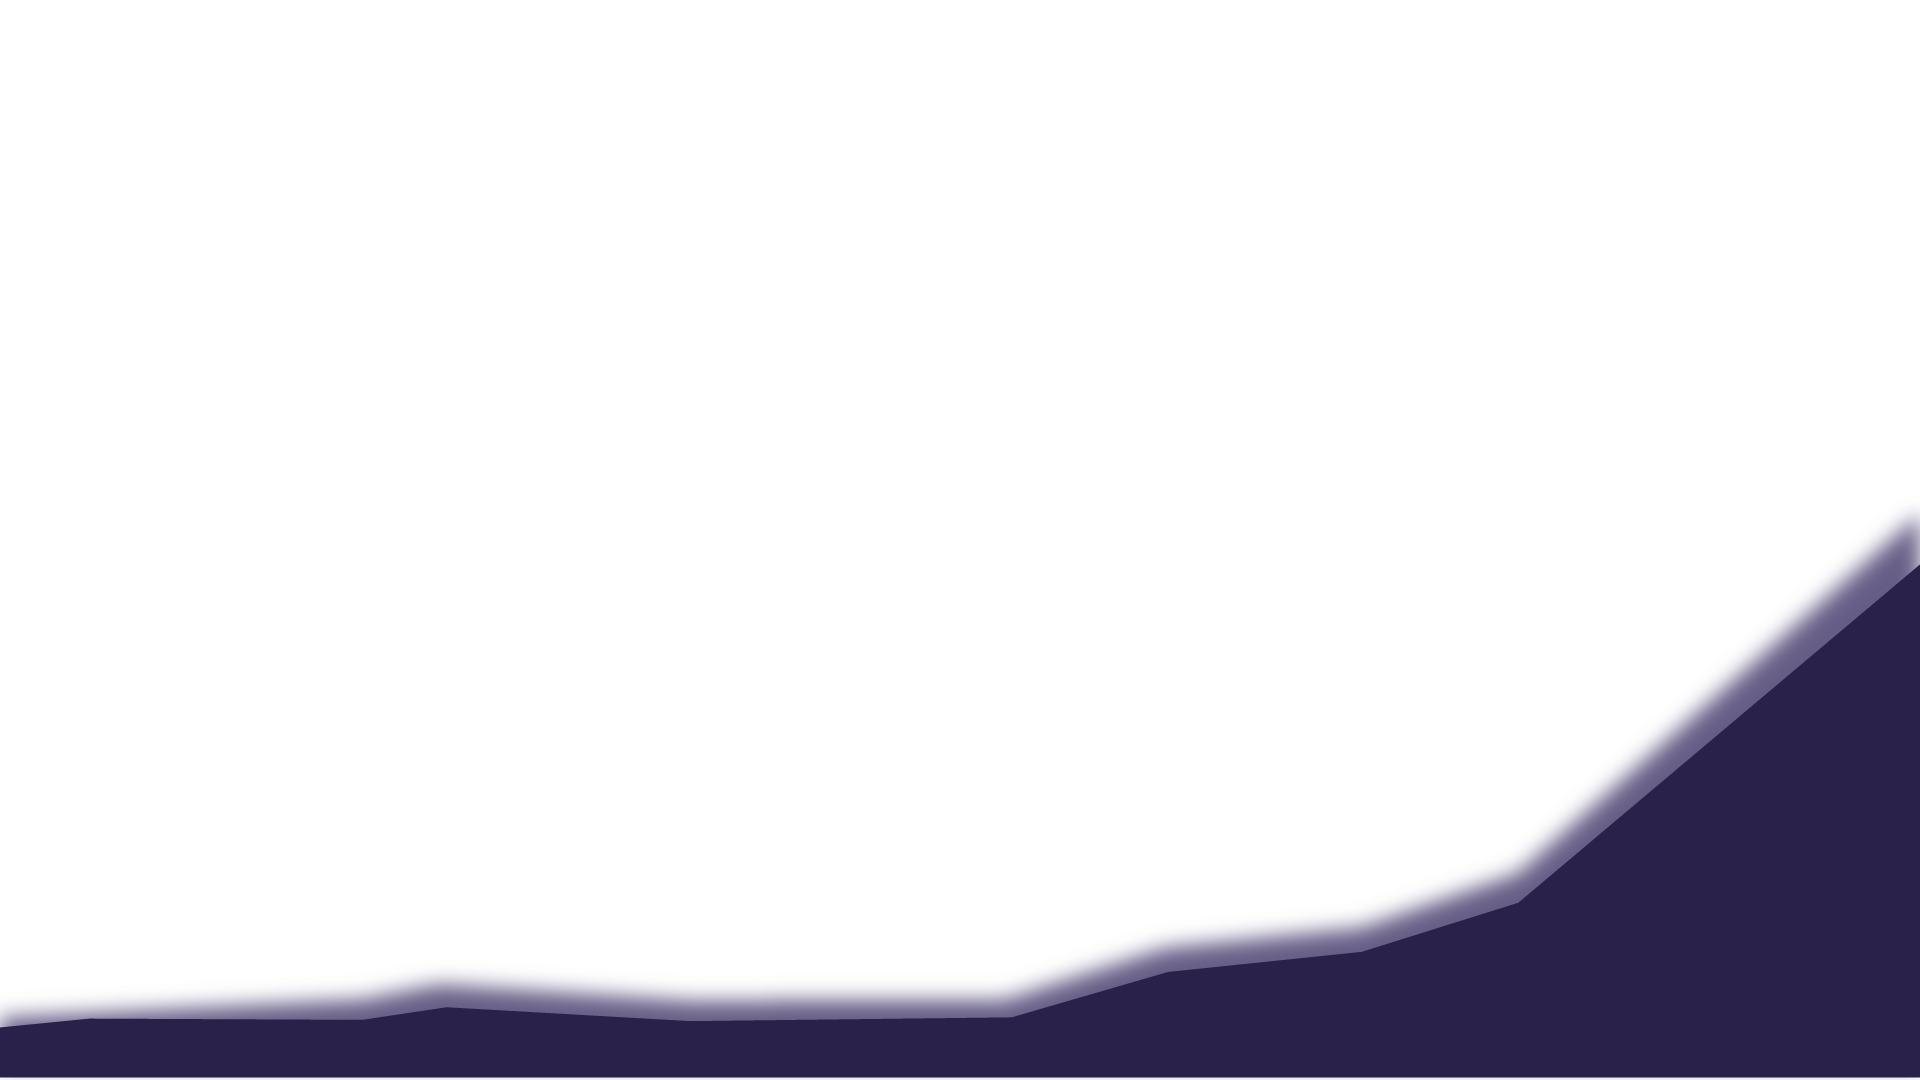
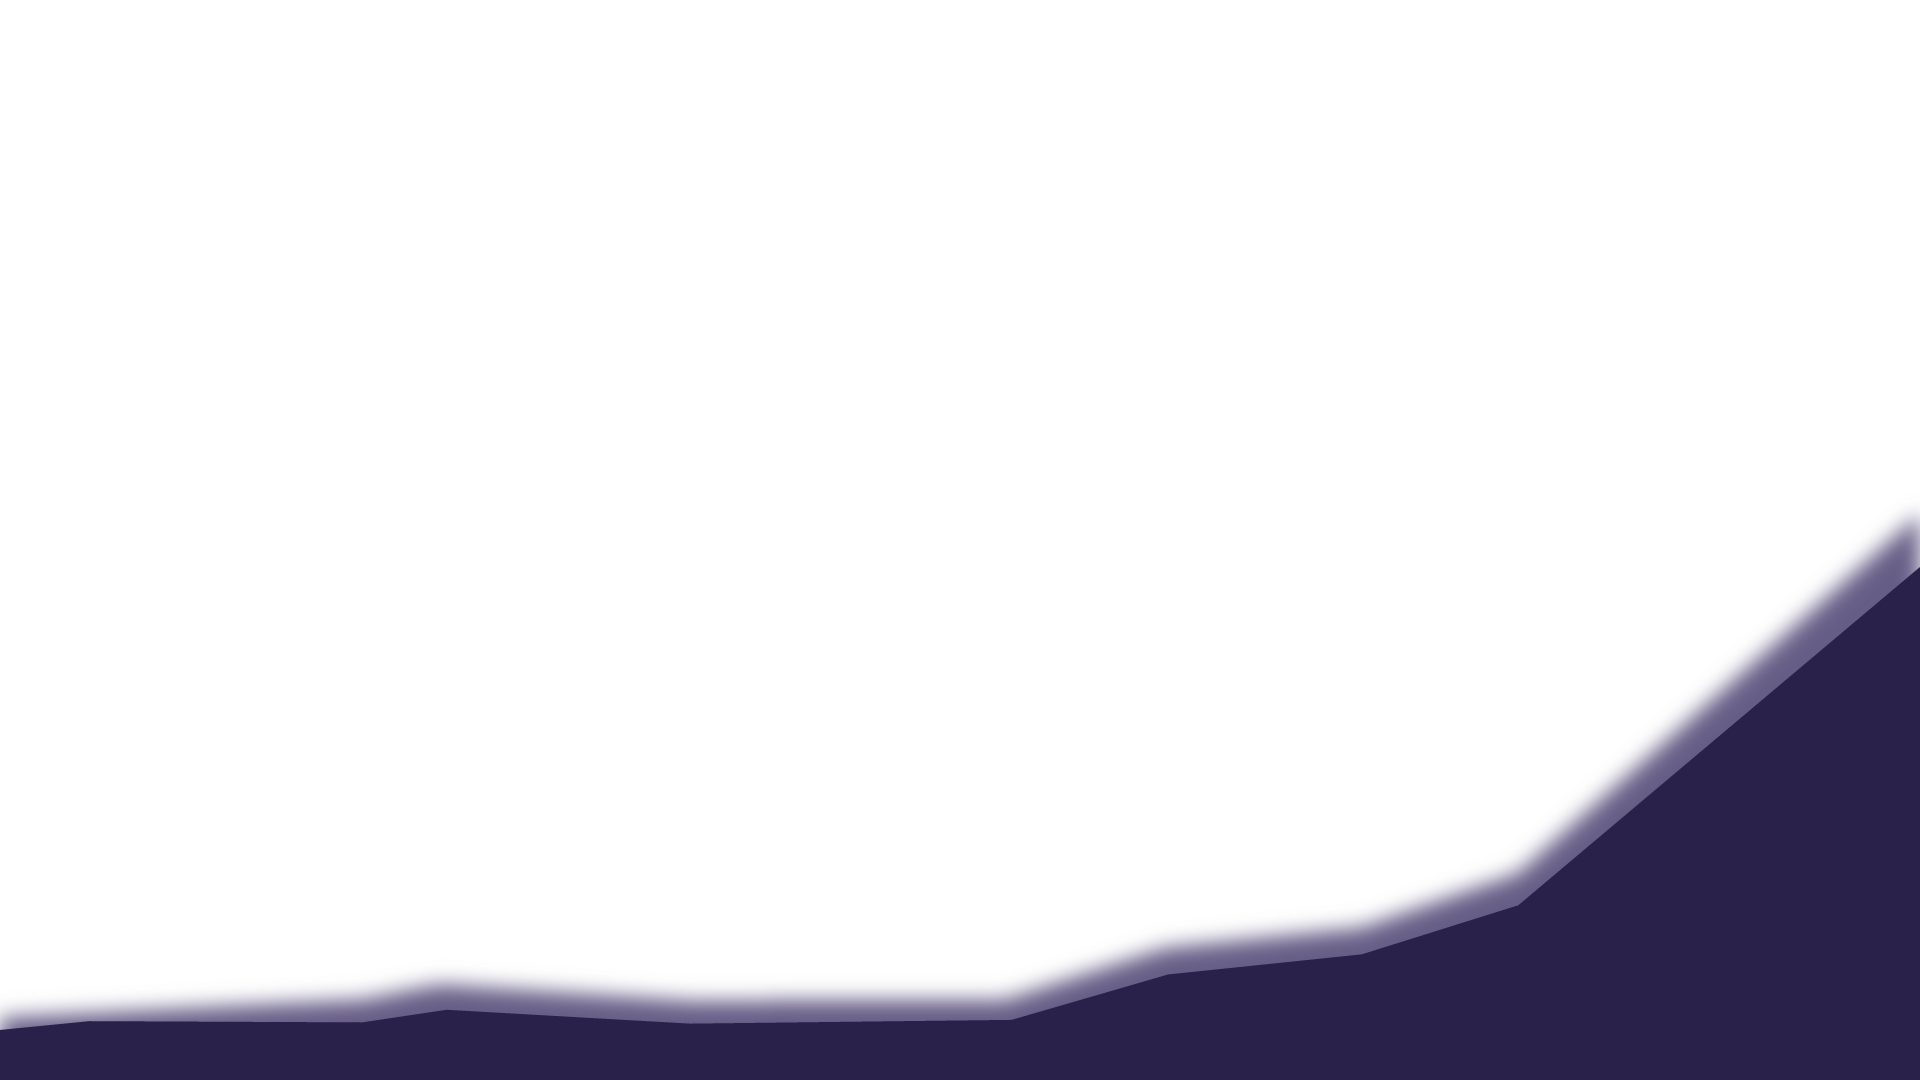
Parallax effect on intro scene

Changed region(s): [[0.0, 0.9778, 1.0, 1.0]]

diff --git a/Assets/css/style.css b/Assets/css/style.css
@@ -220,7 +220,7 @@ nav.sidebar {
   transform: translateY(-50%);
   top: 50%;
   left: 20px;
-  z-index: 100;
+  z-index: 999;
   background-color: #403568;
   padding: 10px;
   border-radius: 100px;
@@ -279,36 +279,40 @@ nav.sidebar ul li:has(.active) a {
 }
 
 #introSection {
-  background-color: linear-gradient(to bottom, #18132A 0%, #2A214A 50%);
+  background: linear-gradient(to bottom, #18132A 0%, #2A214A 50%);
   min-height: auto !important;
   display: grid;
   grid-template-areas: "stack";
-  margin: 0 0 180px 0;
+  margin: 0;
   padding: 0;
+  z-index: 0;
 }
 #introSection * {
   grid-area: stack;
+  align-self: center;
+  justify-self: center;
 }
 #introSection #grid {
-  transform: translateY(-10px);
   z-index: 0;
 }
-#introSection #sun {
+#introSection #stars {
   z-index: 1;
 }
-#introSection #palms {
+#introSection #sun {
   z-index: 2;
 }
-#introSection #horizon {
+#introSection #palms {
   z-index: 3;
+}
+#introSection #horizon {
+  z-index: 4;
 }
 #introSection #transition {
   z-index: 10;
+  transform: translateY(10px);
 }
 #introSection h1 {
-  z-index: 4;
-  align-self: center;
-  justify-self: center;
+  z-index: 5;
   display: flex;
   flex-direction: column;
   transform: rotate(-5deg);
@@ -341,12 +345,13 @@ nav.sidebar ul li:has(.active) a {
   }
 }
 #introSection h1 #h1Web {
-  z-index: 4.1;
+  z-index: 5;
   color: #ED8E73;
   filter: drop-shadow(0 0 3px #ED8E73) drop-shadow(0 0 5px #403568);
   font-family: "Horsemen", sans-serif;
   font-weight: 100;
   font-size: 2.5rem;
+  align-self: center;
 }
 @media (min-width: 400px) {
   #introSection h1 #h1Web {
@@ -374,12 +379,12 @@ nav.sidebar ul li:has(.active) a {
   }
 }
 #introSection h1 #h1Dev {
-  z-index: 5;
+  z-index: 6;
   filter: drop-shadow(0 0 5px #DB408E) drop-shadow(0 0 5px #DB408E) drop-shadow(0 0 5px #DB408E) drop-shadow(0 0 2px #403568);
   font-family: "AXROutrunner", sans-serif;
   font-weight: 100;
   font-size: 4rem;
-  transform: translate(10%, 10%);
+  align-self: center;
 }
 @media (min-width: 400px) {
   #introSection h1 #h1Dev {
@@ -389,7 +394,6 @@ nav.sidebar ul li:has(.active) a {
 @media (min-width: 768px) {
   #introSection h1 #h1Dev {
     font-size: 10rem;
-    transform: translate(25%, 20%);
   }
 }
 @media (min-width: 1024px) {
@@ -408,13 +412,13 @@ nav.sidebar ul li:has(.active) a {
   }
 }
 #introSection h1 #h1Name {
-  z-index: 5;
+  z-index: 6;
   filter: drop-shadow(0 0 2px #403568);
   text-wrap: nowrap;
   font-family: "Torchzilla", sans-serif;
   font-weight: 100;
   font-size: 1.2rem;
-  transform: translateX(30%);
+  align-self: end;
 }
 @media (min-width: 400px) {
   #introSection h1 #h1Name {
@@ -424,7 +428,6 @@ nav.sidebar ul li:has(.active) a {
 @media (min-width: 768px) {
   #introSection h1 #h1Name {
     font-size: 2.8rem;
-    transform: translateX(50%);
   }
 }
 @media (min-width: 1024px) {
@@ -852,6 +855,12 @@ html {
   min-height: 100vh;
   height: auto;
   overflow-x: hidden;
+}
+
+main {
+  z-index: 100;
+  position: relative;
+  background-color: #2A214A;
 }
 
 body {

diff --git a/Assets/scss/intro.scss b/Assets/scss/intro.scss
@@ -4,54 +4,61 @@
 /// CONTENT
 #introSection {
 
-    background-color: $purpleGradient;
+    background: $purpleGradient;
 
     min-height: auto !important;
 
     display: grid;
     grid-template-areas: "stack";
 
-    margin: 0 0 180px 0;
+    margin: 0;
     padding: 0;
+
+    z-index: 0;
 
     * {
 
         grid-area: stack;
+
+        align-self: center;
+        justify-self: center;
     }
 
     #grid {
 
-        transform: translateY(-10px);
-
         z-index: 0;
+    }
+    
+    #stars {
+        
+        z-index: 1;
     }
 
     #sun {
 
-        z-index: 1;
+        z-index: 2;
     }
 
     #palms {
 
-        z-index: 2;
+        z-index: 3;
     }
 
     #horizon {
 
-        z-index: 3;
+        z-index: 4;
     }
 
     #transition {
 
         z-index: 10;
+
+        transform: translateY(10px);
     }
 
     h1 {
 
-        z-index: 4;
-
-        align-self: center;
-        justify-self: center;
+        z-index: 5;
 
         display: flex;
         flex-direction: column;
@@ -89,7 +96,7 @@
 
         #h1Web {
 
-            z-index: 4.1;
+            z-index: 5;
 
             color: $orange;
 
@@ -100,6 +107,8 @@
             font-family: 'Horsemen', sans-serif;
             font-weight: 100;
             font-size: 2.5rem;
+
+            align-self: center;
 
             @include responsive(mobile) {
 
@@ -129,7 +138,7 @@
 
         #h1Dev {
 
-            z-index: 5;
+            z-index: 6;
 
             filter: 
                 drop-shadow(0 0 5px $pink) 
@@ -141,7 +150,7 @@
             font-weight: 100;
             font-size: 4rem;
 
-            transform: translate(10%, 10%);
+            align-self: center;
 
             @include responsive(mobile) {
 
@@ -151,8 +160,6 @@
             @include responsive(tablet) {
 
                 font-size: 10rem;
-
-                transform: translate(25%, 20%);
             }
 
             @include responsive(desktop) {
@@ -173,7 +180,7 @@
 
         #h1Name {
 
-            z-index: 5;
+            z-index: 6;
 
             filter: drop-shadow(0 0 2px $purple);
 
@@ -182,7 +189,7 @@
             font-weight: 100;
             font-size: 1.2rem;
 
-            transform: translateX(30%);
+            align-self: end;
 
             @include responsive(mobile) {
 
@@ -192,8 +199,6 @@
             @include responsive(tablet) {
 
                 font-size: 2.8rem;
-
-                transform: translateX(50%);
             }
 
             @include responsive(desktop) {

diff --git a/Assets/javascripts/parallax.js b/Assets/javascripts/parallax.js
@@ -1,0 +1,28 @@
+console.log('parallax.js loaded');
+
+const grid = document.getElementById("grid");
+const sun = document.getElementById("sun");
+const palms = document.getElementById("palms");
+const horizon = document.getElementById("horizon");
+const stars = document.getElementById("stars");
+const text = document.getElementById("introText");
+
+function onScroll() {
+
+    const scrollY = window.scrollY;
+    
+    grid.style.transform = `translateY(${scrollY * 0.5}px)`;
+    stars.style.transform = `translateY(${scrollY * 0.2}px)`;
+    sun.style.transform = `translateY(${scrollY * 0.5}px)`;
+    palms.style.transform = `translateY(${scrollY * 0.5}px)`;
+    horizon.style.transform = `translateY(${scrollY * 0.5}px)`;
+    text.style.transform = `translateY(${scrollY * 0.6}px) rotate(-5deg)`;
+}
+
+function loop() {
+
+    onScroll();
+    requestAnimationFrame(loop);
+}
+
+loop()

diff --git a/index.html b/index.html
@@ -46,7 +46,7 @@
 
             <img src="Assets/images/transitionLandscape.webp" alt="" aria-hidden="true" id="transition" class="landscape"> <!-- taken from Kevin Powell https://www.youtube.com/watch?v=Qj0Qx8HpNUo -->
             <img src="Assets/images/transitionPortrait.webp" alt="" aria-hidden="true" id="transition" class="portrait">
-            <h1>
+            <h1 id="introText">
                 <span id="h1Name">Thomas Caufriez</span>
                 <span id="h1Web">WEB</span>
                 <span id="h1Dev">Developer</span>

diff --git a/Assets/javascripts/main.js b/Assets/javascripts/main.js
@@ -3,6 +3,7 @@ console.log('main.js loaded')
 import "./skills.js";
 import "./cards.js";
 import "./sidebar.js";
+import "./parallax.js";
 
 document.addEventListener("DOMContentLoaded", function() {
     AOS.init({

diff --git a/Assets/scss/style.scss b/Assets/scss/style.scss
@@ -32,6 +32,13 @@ html {
     overflow-x: hidden;
 }
 
+main {
+
+    z-index: 100;
+    position: relative;
+    background-color: $darkPurple;
+}
+
 body {
 
     background: $darkPurple;

diff --git a/Assets/scss/sidebar.scss b/Assets/scss/sidebar.scss
@@ -11,7 +11,7 @@ nav.sidebar  {
     top: 50%;
     left: 20px;
 
-    z-index: 100;
+    z-index: 999;
         
     background-color: $purple;
     
